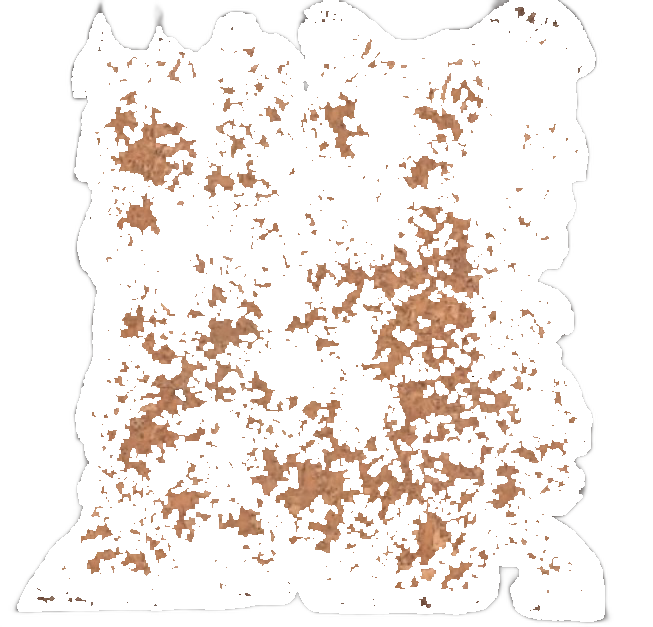
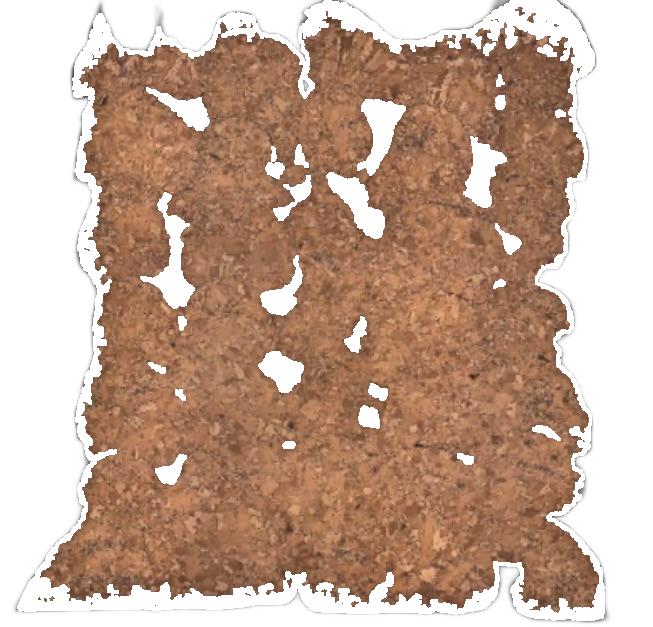
almost there

diff --git a/main.py b/main.py
@@ -105,7 +105,7 @@ def ai_main(inputpath, outputpath,
               scriptpath, 
               blacktolerance=0.5, 
               minimumclustersize=30, 
-              maxdebrissize=50):
+              maxdebrissize=50, top = False, bottom = False, left = False, right= False):
     from naive import obtainblack, sweeper, clustereater, countvalidpixels, debrissweeper, complexblack, collect_border_pixels
     from removebg import remove_background
 
@@ -113,7 +113,8 @@ def ai_main(inputpath, outputpath,
     rawimage = rawimage.convert("RGBA")
     normalimagesize = countvalidpixels(rawimage)
     no_bg_image = remove_background(inputpath,False)
-    borderpixels = collect_border_pixels(rawimage)
+    no_bg_image.save('outputrmbg/NO_BG_ONLY_output.png')
+    borderpixels = collect_border_pixels(rawimage, top, bottom, left, right)
     cleaned_image = no_bg_image
     clusters = []
     for pixel in borderpixels:
@@ -125,6 +126,7 @@ def ai_main(inputpath, outputpath,
     avg_cluster_size = sum(clusters) / len(clusters) if clusters else 0
     clusteramount = len(clusters)
     cleaned_image.save(outputpath)
+   
     with open(scriptpath, "w") as f:
         f.write("Report: \n\n")
         f.write("All numbers here are expressed in terms of pixel count. If provided with an image scale and image size,\n one can easily convert these values to meaningful units. \n")
@@ -195,13 +197,19 @@ def run_ai_main():
         black_tol = float(black_tolerance.get())
         min_cluster = int(min_cluster_size.get())
         max_debris = int(max_debris_size.get())
+        top_val = top_var.get()
+        bottom_val = bottom_var.get()
+        left_val = left_var.get()
+        right_val = right_var.get()
         
         if not input_file or not output_dir or not script_file:
             raise ValueError("Input, output, and script paths are required.")
         
-        ai_main(input_file, output_dir, script_file, black_tol, min_cluster, max_debris)
+        ai_main(input_file, output_dir, script_file, black_tol, min_cluster, max_debris, top_val, bottom_val, left_val, right_val)
         messagebox.showinfo("Success", "Function executed successfully!")
    
+
+
 # Create the main window
 root = tk.Tk()
 root.title("Naive Main GUI")
@@ -214,6 +222,13 @@ script_path = tk.StringVar(value='outputrmbg/aareport.txt')
 black_tolerance = tk.StringVar(value="0.5")
 min_cluster_size = tk.StringVar(value="30")
 max_debris_size = tk.StringVar(value="50")
+
+# Create variables for checkboxes
+top_var = tk.BooleanVar(value=True)
+bottom_var = tk.BooleanVar(value=True)
+left_var = tk.BooleanVar(value=True)
+right_var = tk.BooleanVar(value=True)
+
 
 tk.Label(root, text="Input Path:").grid(row=0, column=0, sticky="e", padx=5, pady=5)
 tk.Entry(root, textvariable=input_path, width=50).grid(row=0, column=1, padx=5, pady=5)
@@ -236,22 +251,21 @@ tk.Entry(root, textvariable=min_cluster_size, width=10).grid(row=4, column=1, st
 tk.Label(root, text="Max Debris Size:").grid(row=5, column=0, sticky="e", padx=5, pady=5)
 tk.Entry(root, textvariable=max_debris_size, width=10).grid(row=5, column=1, sticky="w", padx=5, pady=5)
 
-# Place the buttons next to each other
-tk.Button(root, text="Run Naive Function", command=run_function).grid(row=6, column=1, pady=10, sticky="e", padx=(0, 10))
-tk.Button(root, text="Run Complex Function", command=run_comp_function).grid(row=6, column=2, pady=10, sticky="w", padx=(10, 0))
-tk.Button(root, text="AI-Function", command=run_ai_main).grid(row=6, column=3, pady=10, sticky="w", padx=(10, 0))
+# Add checkboxes
+tk.Checkbutton(root, text="Top", variable=top_var).grid(row=3, column=2, sticky="w", padx=5, pady=5)
+tk.Checkbutton(root, text="Bottom", variable=bottom_var).grid(row=4, column=2, sticky="w", padx=5, pady=5)
+tk.Checkbutton(root, text="Left", variable=left_var).grid(row=5, column=2, sticky="w", padx=5, pady=5)
+tk.Checkbutton(root, text="Right", variable=right_var).grid(row=6, column=2, sticky="w", padx=5, pady=5)
 
+# Place the buttons next to each other
+tk.Button(root, text="Run Naive Function", command=run_function).grid(row=7, column=1, pady=10, sticky="e", padx=(0, 10))
+tk.Button(root, text="Run Complex Function", command=run_comp_function).grid(row=7, column=2, pady=10, sticky="w", padx=(10, 0))
+tk.Button(root, text="AI-Function", command=run_ai_main).grid(row=7, column=3, pady=10, sticky="w", padx=(10, 0))
 
 # Create a Text widget for static text
 static_text = tk.Text(root, height=50, width=150, wrap=tk.WORD)
-static_text.grid(row=7, column=0, columnspan=3, padx=5, pady=5)
+static_text.grid(row=8, column=0, columnspan=3, padx=5, pady=5)
 static_text.insert(tk.END, """
-# Naive Image Processing Tool
-
-This tool removes image backgrounds and identifies clusters.
-
-## Parameters:
-
 1. **Black Tolerance** (default: 0.5, range: 0.0-1.0):
    - Defines how lenient we are when removing background - Higher : More removed.
 2. **Minimum Cluster Size** (default: 30):

diff --git a/naive.py b/naive.py
@@ -28,30 +28,36 @@ def complexblack(image):
     # If no pixel with non-zero alpha is found
     return False
 
-def collect_border_pixels(image):
+def collect_border_pixels(image, top=True, bottom=True, left=True, right=True):
     width, height = image.size
     border_distance = 2
     pixel_values = []
 
     # Check top and bottom borders
-    for x in range(border_distance, width - border_distance):
-        top_pixel = image.getpixel((x, border_distance))
-        if top_pixel[3] != 0:  # Check alpha value
-            pixel_values.append(top_pixel)
-        
-        bottom_pixel = image.getpixel((x, height - border_distance - 1))
-        if bottom_pixel[3] != 0:
-            pixel_values.append(bottom_pixel)
+    if top or bottom:
+        for x in range(border_distance, width - border_distance):
+            if top:
+                top_pixel = image.getpixel((x, border_distance))
+                if top_pixel[3] != 0:  # Check alpha value
+                    pixel_values.append(top_pixel)
+            
+            if bottom:
+                bottom_pixel = image.getpixel((x, height - border_distance - 1))
+                if bottom_pixel[3] != 0:
+                    pixel_values.append(bottom_pixel)
 
     # Check left and right borders
-    for y in range(border_distance, height - border_distance):
-        left_pixel = image.getpixel((border_distance, y))
-        if left_pixel[3] != 0:
-            pixel_values.append(left_pixel)
-        
-        right_pixel = image.getpixel((width - border_distance - 1, y))
-        if right_pixel[3] != 0:
-            pixel_values.append(right_pixel)
+    if left or right:
+        for y in range(border_distance, height - border_distance):
+            if left:
+                left_pixel = image.getpixel((border_distance, y))
+                if left_pixel[3] != 0:
+                    pixel_values.append(left_pixel)
+            
+            if right:
+                right_pixel = image.getpixel((width - border_distance - 1, y))
+                if right_pixel[3] != 0:
+                    pixel_values.append(right_pixel)
 
     # Remove duplicates by converting to a set and back to a list
     unique_pixel_values = list(set(pixel_values))
@@ -68,6 +74,11 @@ def obtainblack(image):
 
 def pixel_within_tolerance(pixel, minblack, maxblack):
     return all(minblack[i] <= pixel[i] <= maxblack[i] for i in range(3))
+def pixel_transparent_checker(pixel):
+    if isinstance(pixel, tuple) and len(pixel) == 4:
+        return pixel[3] == 0
+    else:
+        return False
 
 def sweeper(image, black, tolerance, minimumcluster):
     width, height = image.size
@@ -110,14 +121,15 @@ def miniclusterchecker(image, start_x, start_y, black, tolerance, min_size):
                 neighbor_y = y + dy
                 if 0 <= neighbor_x < width and 0 <= neighbor_y < height and (neighbor_x, neighbor_y) not in visited:
                     neighbor_pixel = image.getpixel((neighbor_x, neighbor_y))
+                    if pixel_transparent_checker(neighbor_pixel):
+                        return False
                     if pixel_within_tolerance(neighbor_pixel, minblack, maxblack):
+                    
                         queue.append((neighbor_x, neighbor_y))
                         visited.add((neighbor_x, neighbor_y))
-                    elif neighbor_pixel[3] == 0:
-                        borders_alpha_zero = True
 
     # Check if the cluster borders any alpha == 0 pixels
-    return cluster_size >= min_size and not borders_alpha_zero
+    return cluster_size >= min_size 
 
 def clustereater(image, x, y, black, tolerance):
     clustersize = 1  # Initialize with 1 to count the starting pixel
@@ -157,6 +169,9 @@ def countvalidpixels(image):
                 count += 1
     return count
 
+
+
+#ONLY FOR DERBIS -  DERELICT
 def debrissweeper(image, min_cluster_size):
     width, height = image.size
     visited = set()
@@ -173,7 +188,7 @@ def debrissweeper(image, min_cluster_size):
                             image.putpixel((cx, cy), (255, 255, 255, 0))
     
     return image
-
+#ONLY FOR DERBIS -  DERELICT
 def check_cluster_size(image, start_x, start_y, visited):
     width, height = image.size
     queue = [(start_x, start_y)]
